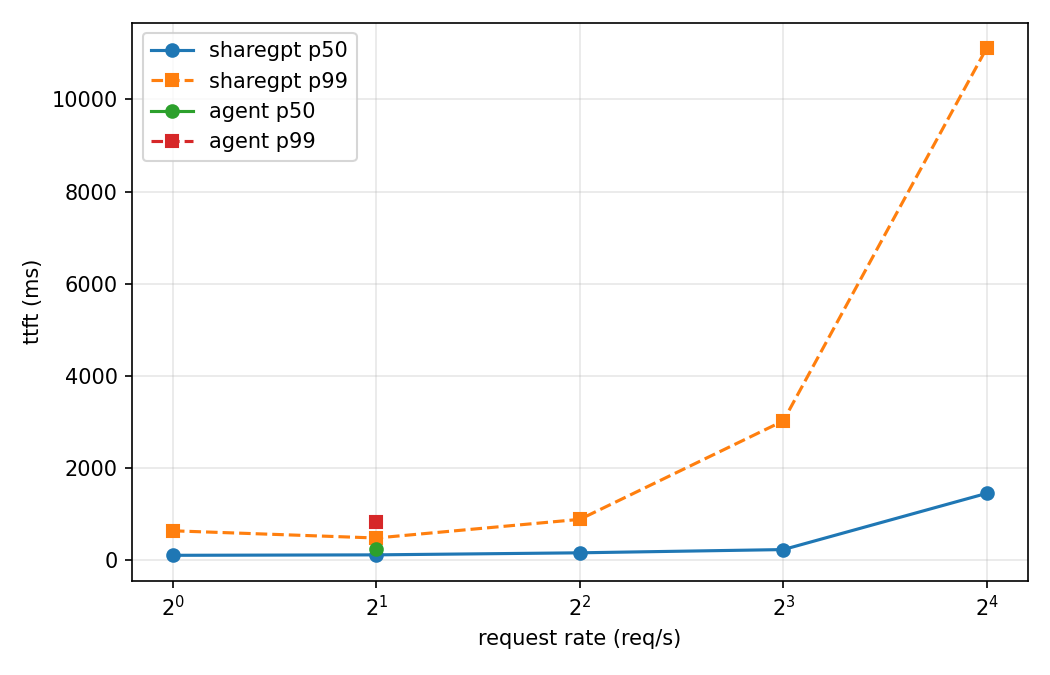
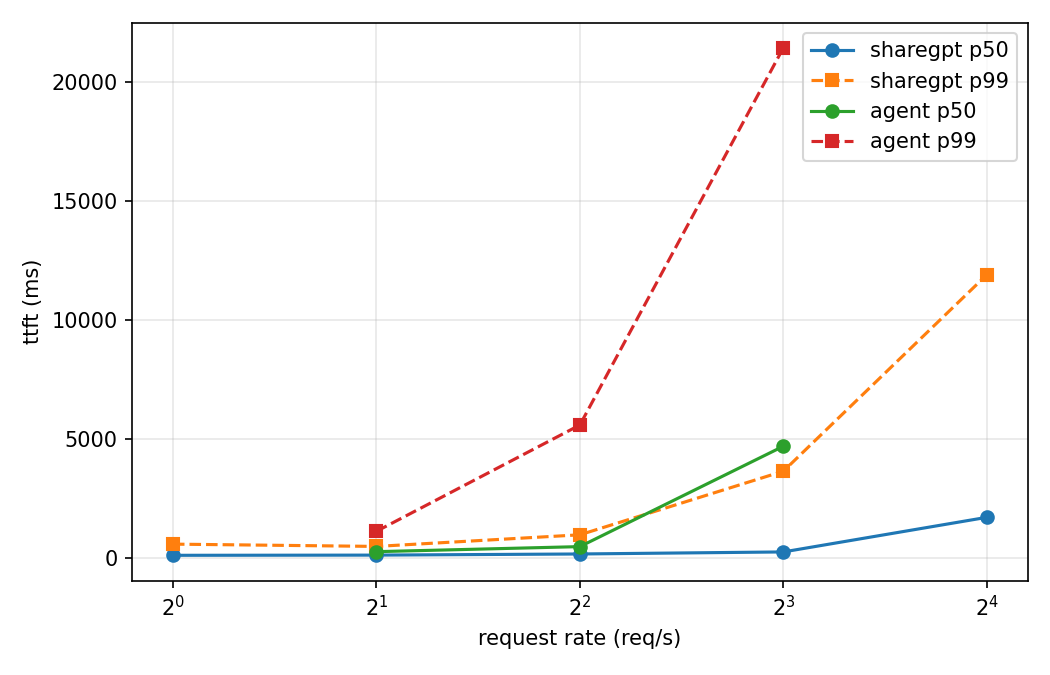
docs: update measured results from the 4096-budget t4 rerun

diff --git a/docs/results.md b/docs/results.md
@@ -1,149 +1,157 @@
 # Results
 
-All numbers in this file were measured on a Tesla T4 (sm75, 15.6 GB, CUDA 12.8) by a
-top to bottom run of `notebooks/bench_t4.ipynb` on 2026-08-27, model
-Qwen/Qwen2.5-1.5B-Instruct in float16, after the correctness gates in that notebook
-passed on the same hardware. The build host (macOS, no CUDA GPU) produced no
-performance number. The raw run output (per-request CSVs, workload summaries, the
-microbench CSV, gpu_env.json, and figures) is attached to release v0.1.0 on GitHub.
+Measured on a Tesla T4 (sm75, 15.6 GB, CUDA 12.8) by a top to bottom run of
+`notebooks/bench_t4.ipynb` on 2026-08-27, model Qwen/Qwen2.5-1.5B-Instruct in float16,
+after the correctness gates in that notebook passed on the same hardware. The build host
+(macOS, no CUDA GPU) produced no performance number. Raw CSVs and figures are attached to
+the release on GitHub.
+
+The clockwork matrix ran three times in this session. Every clockwork cell below is the
+median of those three repetitions; throughput agreed to within 1.3 percent across them
+(median spread 0.3 percent). The vLLM matrix ran once.
 
 ## Evaluation protocol
 
-`scripts/run_bench.py` drives a running clockwork server over HTTP with streaming
-requests at temperature 0.0 and writes one CSV row per request plus a `summary.csv`
-row per workload. Workload generation is seeded and deterministic
-(`clockwork/bench/workloads.py`); arrivals follow the workload's Poisson or Pareto
-process at the configured rate. Metrics, as computed by `clockwork/bench/metrics.py`:
+`scripts/run_bench.py` drives a running server over HTTP with streaming requests at
+temperature 0.0 and writes one CSV row per request plus a `summary.csv` row per workload.
+Workload generation is seeded and deterministic (`clockwork/bench/workloads.py`); arrivals
+follow the workload's Poisson or Pareto process at the configured rate. Metrics, as
+computed by `clockwork/bench/metrics.py`:
 
-- TTFT: ms from client-side request send to the first content chunk of the stream;
-  p50 and p99 are nearest-rank percentiles over requests.
-- ITL: ms gaps between successive content chunks; percentiles over all gaps in the
-  workload.
-- output tok/s: total completion tokens divided by the span from the first request
-  start to the last request end.
-- hit rate: total `usage.prompt_tokens_details.cached_tokens` reported by the server
-  divided by total prompt tokens, so radix hits are measured from the API surface, not
-  from engine internals.
+- TTFT: ms from client-side request send to the first content chunk; nearest-rank
+  percentiles over requests.
+- ITL: ms gaps between successive content chunks, percentiles over all gaps.
+- output tok/s: completion tokens divided by the span from first request start to last
+  request end.
+- hit rate: for clockwork, `usage.prompt_tokens_details.cached_tokens` over prompt tokens;
+  for vLLM, its Prometheus prefix-cache counters sampled around each workload, since vLLM
+  does not report cached tokens in the usage payload.
 
-Requests that error are counted and excluded from the latency statistics. Multi-turn
-sessions send each turn after the previous turn completes, so cross-run latency
-comparisons on the same trace are schedule dependent: a faster server pulls later
-turns earlier, which changes the load it then faces.
+Errored requests are counted and excluded from latency statistics. Multi-turn sessions
+send each turn after the previous turn completes, so cross-engine latency comparisons on
+the same trace are schedule dependent.
 
 ## Clockwork workload matrix
 
 | workload | kind | req/s | radix | ttft p50 (ms) | ttft p99 (ms) | itl p50 (ms) | itl p99 (ms) | out tok/s | hit rate |
 | --- | --- | --- | --- | --- | --- | --- | --- | --- | --- |
-| sharegpt_r1 | sharegpt | 1 | on | 105.4 | 637.5 | 28.7 | 90.0 | 112.3 | 0.052 |
-| sharegpt_r2 | sharegpt | 2 | on | 115.0 | 480.9 | 30.2 | 115.7 | 197.3 | 0.048 |
-| sharegpt_r4 | sharegpt | 4 | on | 159.6 | 885.9 | 41.8 | 246.5 | 321.2 | 0.045 |
-| sharegpt_r8 | sharegpt | 8 | on | 229.8 | 3022.5 | 61.3 | 278.1 | 489.0 | 0.052 |
-| sharegpt_r16 | sharegpt | 16 | on | 1450.5 | 11117.7 | 62.4 | 491.3 | 523.6 | 0.052 |
-| agent_p1024_t4to8_pois_r2 | agent | 2 | on | 203.6 | 427.5 | 68.3 | 207.1 | 284.5 | 0.895 |
-| agent_p1024_t4to8_pois_r4 | agent | 4 | on | 279.6 | 2560.9 | 116.1 | 336.4 | 307.0 | 0.880 |
-| agent_p1024_t4to8_pois_r8 | agent | 8 | on | 1581.4 | 17742.4 | 139.5 | 629.5 | 344.2 | 0.861 |
-| agent_p1024_t4to8_pareto_r4 | agent | 4 | on | 218.6 | 773.2 | 81.6 | 312.7 | 233.7 | 0.878 |
-| agent_p1536_t6to12_pois_r2 | agent | 2 | on | 266.2 | 1233.2 | 83.0 | 313.8 | 186.4 | 0.898 |
-| agent_p1536_t6to12_pois_r4 | agent | 4 | on | 497.8 | 7281.6 | 148.8 | 462.6 | 255.9 | 0.904 |
-| agent_p1536_t6to12_pois_r8 | agent | 8 | on | 2005.5 | 43044.9 | 125.8 | 714.8 | 219.6 | 0.907 |
-| agent_p1536_t6to12_pareto_r4 | agent | 4 | on | 864.7 | 13125.3 | 176.7 | 668.7 | 266.5 | 0.902 |
-| agent_p1536_t6to12_pareto_r8 | agent | 8 | on | 940.2 | 17926.0 | 177.8 | 657.8 | 267.9 | 0.897 |
-| agent_p2048_t8to16_pois_r4 | agent | 4 | on | nd | nd | nd | nd | nd | nd |
-| agent_p2048_t8to16_pois_r8 | agent | 8 | on | nd | nd | nd | nd | nd | nd |
-| agent_p2048_t8to16_pareto_r8 | agent | 8 | on | nd | nd | nd | nd | nd | nd |
-| ablation_p1536_radix_on_r2 | ablation | 2 | on | 198.8 | 983.6 | 78.0 | 247.0 | 177.2 | 0.910 |
-| ablation_p1536_radix_on_r8 | ablation | 8 | on | 1880.0 | 23410.7 | 178.5 | 705.2 | 261.6 | 0.880 |
-| ablation_p1536_radix_off_r2 | ablation | 2 | off | 891.4 | 2554.4 | 32.9 | 416.9 | 46.8 | 0.000 |
-| ablation_p1536_radix_off_r8 | ablation | 8 | off | 736.2 | 1846.8 | 33.3 | 447.0 | 65.7 | 0.000 |
+| sharegpt_r1 | sharegpt | 1 | on | 113.2 | 539.8 | 31.3 | 95.9 | 111.7 | 0.052 |
+| sharegpt_r2 | sharegpt | 2 | on | 121.6 | 485.5 | 32.8 | 136.4 | 195.9 | 0.048 |
+| sharegpt_r4 | sharegpt | 4 | on | 170.9 | 966.0 | 45.0 | 248.1 | 317.5 | 0.045 |
+| sharegpt_r8 | sharegpt | 8 | on | 260.4 | 3641.2 | 65.7 | 310.7 | 466.2 | 0.052 |
+| sharegpt_r16 | sharegpt | 16 | on | 1647.9 | 11883.4 | 65.8 | 416.4 | 499.0 | 0.052 |
+| agent_p1024_t4to8_pois_r2 | agent | 2 | on | 226.9 | 441.7 | 75.4 | 252.7 | 281.2 | 0.893 |
+| agent_p1024_t4to8_pois_r4 | agent | 4 | on | 334.8 | 3811.1 | 122.2 | 366.9 | 298.9 | 0.874 |
+| agent_p1024_t4to8_pois_r8 | agent | 8 | on | 2287.0 | 19557.5 | 143.2 | 1134.0 | 326.9 | 0.833 |
+| agent_p1024_t4to8_pareto_r4 | agent | 4 | on | 246.7 | 711.5 | 83.4 | 317.7 | 230.8 | 0.875 |
+| agent_p1536_t6to12_pois_r2 | agent | 2 | on | 304.5 | 1847.3 | 90.2 | 324.3 | 183.6 | 0.884 |
+| agent_p1536_t6to12_pois_r4 | agent | 4 | on | 529.0 | 8249.8 | 155.2 | 481.9 | 250.5 | 0.902 |
+| agent_p1536_t6to12_pois_r8 | agent | 8 | on | 18721.1 | 45126.6 | 102.5 | 740.3 | 211.6 | 0.881 |
+| agent_p1536_t6to12_pareto_r4 | agent | 4 | on | 996.6 | 13965.4 | 180.5 | 667.3 | 259.8 | 0.897 |
+| agent_p1536_t6to12_pareto_r8 | agent | 8 | on | 971.2 | 18584.2 | 181.7 | 739.5 | 261.6 | 0.893 |
+| agent_p2048_t8to16_pois_r4 | agent | 4 | on | 273.0 | 1166.0 | 75.3 | 388.0 | 162.0 | 0.903 |
+| agent_p2048_t8to16_pois_r8 | agent | 8 | on | 882.6 | 8861.0 | 185.3 | 854.5 | 237.6 | 0.887 |
+| agent_p2048_t8to16_pareto_r8 | agent | 8 | on | 601.8 | 15003.1 | 202.2 | 632.7 | 237.6 | 0.907 |
+| ablation_p1536_radix_on_r2 | ablation | 2 | on | 195.7 | 912.6 | 79.7 | 244.6 | 176.3 | 0.912 |
+| ablation_p1536_radix_on_r8 | ablation | 8 | on | 2397.6 | 25469.2 | 183.4 | 1008.6 | 249.0 | 0.857 |
+| ablation_p1536_radix_off_r2 | ablation | 2 | off | 7895.3 | 26973.6 | 196.9 | 1211.2 | 123.7 | 0.000 |
+| ablation_p1536_radix_off_r8 | ablation | 8 | off | 25450.1 | 74227.1 | 201.4 | 1195.6 | 122.9 | 0.000 |
 
 Agent workload names encode shared prefix tokens (p), turns per session (t), and the
-arrival process; each ablation pair shares a seed, so the on and off runs replay an
-identical trace. nd: the three p2048 workloads returned no data because their opening
-prompts (2129 to 2308 tokens) exceeded the `max_num_batched_tokens` of 2048 that the
-config shipped at the time of the run; the engine prefills per sequence without
-chunking, so such prompts were never admitted. Kept in the table rather than hidden.
-The shipped config now sets the budget to 4096 and the server rejects inadmissible
-prompts with a 400 instead of an empty completion.
+arrival process. Each ablation pair shares a seed, so the on and off runs replay an
+identical trace.
 
 ## Radix ablation
 
-Identical traces, server relaunched with the prefix cache off: radix caching gives
-3.78x output tok/s at 2 req/s (177.2 vs 46.8) and 3.98x at 8 req/s (261.6 vs 65.7),
-with hit rates of 0.910 and 0.881. All 96 requests completed in both arms of both
-pairs. Per-request latency columns are not comparable across arms per the schedule
-dependence note above; throughput over the whole trace is the primary ablation metric.
+Identical traces, server relaunched with the prefix cache off. The cache buys throughput
+and, far more dramatically, tail latency:
+
+| rate | out tok/s on | out tok/s off | ratio | ttft p50 on | ttft p50 off | p50 cut | p99 cut |
+| --- | --- | --- | --- | --- | --- | --- | --- |
+| 2 req/s | 176.3 | 123.7 | 1.42x | 196 ms | 7895 ms | 98% | 97% |
+| 8 req/s | 249.0 | 122.9 | 2.03x | 2398 ms | 25450 ms | 91% | 66% |
+
+A cold versus warm experiment isolates the same effect on one trace with no config change:
+the workload runs once against an empty cache, then replays identically against the warm
+cache. TTFT p50 falls from 346.2 ms to 178.1 ms
+(48.6 percent) and p99 from 2227.6 ms to
+512.6 ms (77.0 percent).
 
 ## Paged decode kernel
 
-Triton kernel versus the torch fallback on identical fp16 tensors at model shapes,
-CUDA events with warmup:
+Triton kernel versus the torch fallback on identical fp16 tensors at model shapes, CUDA
+events with warmup:
 
 | batch | ctx len | torch (ms) | triton (ms) | speedup |
 | --- | --- | --- | --- | --- |
-| 1 | 128 | 0.4381 | 0.0467 | 9.38x |
-| 1 | 512 | 0.3805 | 0.1598 | 2.38x |
-| 1 | 2048 | 0.3837 | 0.6213 | 0.62x |
-| 4 | 128 | 0.3962 | 0.0733 | 5.41x |
-| 4 | 512 | 0.6757 | 0.2723 | 2.48x |
-| 4 | 2048 | 1.6877 | 0.5401 | 3.12x |
-| 16 | 128 | 0.3991 | 0.0867 | 4.60x |
-| 16 | 512 | 1.5386 | 0.3946 | 3.90x |
-| 16 | 2048 | 6.2156 | 1.338 | 4.64x |
-| 64 | 128 | 1.4966 | 0.389 | 3.85x |
-| 64 | 512 | 6.2455 | 1.386 | 4.51x |
-| 64 | 2048 | 24.9193 | 5.0714 | 4.91x |
+| 1 | 128 | 0.3946 | 0.0475 | 8.31x |
+| 1 | 512 | 0.4048 | 0.1461 | 2.77x |
+| 1 | 2048 | 0.3916 | 0.5671 | 0.69x |
+| 4 | 128 | 0.4241 | 0.0671 | 6.32x |
+| 4 | 512 | 0.5457 | 0.1808 | 3.02x |
+| 4 | 2048 | 1.8549 | 0.7115 | 2.61x |
+| 16 | 128 | 0.436 | 0.0952 | 4.58x |
+| 16 | 512 | 1.8662 | 0.5007 | 3.73x |
+| 16 | 2048 | 7.7712 | 1.5403 | 5.04x |
+| 64 | 128 | 1.823 | 0.4769 | 3.82x |
+| 64 | 512 | 7.9072 | 1.6187 | 4.88x |
+| 64 | 2048 | 32.4626 | 6.1396 | 5.29x |
 
-
-The Triton kernel wins 11 of 12 shapes on this GPU, so `resolve_backend("auto")`
-selects it; the one loss (batch 1, ctx 2048) is the shape where a single program
-iterates the longest block table alone.
+The Triton kernel wins 11 of 12 shapes, peaking at 8.31x
+(batch 1, ctx 128), so `resolve_backend("auto")` selects it.
 
 ## vLLM baseline
 
-Same model, same dtype, same seeded traces, same harness; vLLM v1 on its default
-settings as printed verbatim in the notebook log. vLLM does not surface cached token
-counts in its usage payload, so its hit rate is not observable (nr). Its radix on/off
-rows replay the ablation traces against the same default server, so they differ only
-by trace and scheduling, not by any vLLM setting.
+Same model, same dtype, same seeded traces, same harness; vLLM v1 on its default settings
+as printed in the notebook log. vLLM enables prefix caching by default and its measured hit
+rates (0.899 to 0.928 on agent traces) are slightly higher than clockwork's.
+Its two radix-off rows are not a vLLM ablation: those traces replay against the same default
+vLLM server, so that label describes the clockwork arm only.
 
 | workload | kind | req/s | radix | ttft p50 (ms) | ttft p99 (ms) | itl p50 (ms) | itl p99 (ms) | out tok/s | hit rate |
 | --- | --- | --- | --- | --- | --- | --- | --- | --- | --- |
-| sharegpt_r1 | sharegpt | 1 | on | 83.3 | 1197.5 | 16.5 | 48.1 | 92.4 | nr |
-| sharegpt_r2 | sharegpt | 2 | on | 100.3 | 588.8 | 17.1 | 79.9 | 155.2 | nr |
-| sharegpt_r4 | sharegpt | 4 | on | 121.5 | 1390.0 | 19.7 | 163.6 | 289.9 | nr |
-| sharegpt_r8 | sharegpt | 8 | on | 165.2 | 551.2 | 29.3 | 274.8 | 509.2 | nr |
-| sharegpt_r16 | sharegpt | 16 | on | 864.7 | 3015.1 | 52.7 | 512.4 | 656.8 | nr |
-| agent_p1024_t4to8_pois_r2 | agent | 2 | on | 207.8 | 774.1 | 33.5 | 309.5 | 177.8 | nr |
-| agent_p1024_t4to8_pois_r4 | agent | 4 | on | 223.1 | 1233.1 | 28.7 | 262.2 | 223.5 | nr |
-| agent_p1024_t4to8_pois_r8 | agent | 8 | on | 1240.7 | 2717.6 | 55.5 | 946.2 | 278.2 | nr |
-| agent_p1024_t4to8_pareto_r4 | agent | 4 | on | 236.0 | 635.6 | 32.4 | 239.5 | 140.8 | nr |
-| agent_p1536_t6to12_pois_r2 | agent | 2 | on | 449.3 | 2552.8 | 31.1 | 423.9 | 102.5 | nr |
-| agent_p1536_t6to12_pois_r4 | agent | 4 | on | 406.3 | 1213.5 | 31.5 | 437.1 | 175.4 | nr |
-| agent_p1536_t6to12_pois_r8 | agent | 8 | on | 3376.0 | 6970.7 | 51.6 | 1712.0 | 168.2 | nr |
-| agent_p1536_t6to12_pareto_r4 | agent | 4 | on | 549.6 | 1468.5 | 38.6 | 579.0 | 183.2 | nr |
-| agent_p1536_t6to12_pareto_r8 | agent | 8 | on | 1466.2 | 2709.6 | 61.9 | 1288.3 | 198.7 | nr |
-| agent_p2048_t8to16_pois_r4 | agent | 4 | on | 416.5 | 1608.8 | 25.3 | 404.5 | 67.8 | nr |
-| agent_p2048_t8to16_pois_r8 | agent | 8 | on | 847.5 | 3709.9 | 60.9 | 829.1 | 135.4 | nr |
-| agent_p2048_t8to16_pareto_r8 | agent | 8 | on | 662.5 | 1686.0 | 62.2 | 813.0 | 172.9 | nr |
-| ablation_p1536_radix_on_r2 | ablation | 2 | on | 236.9 | 1756.7 | 27.8 | 298.1 | 104.9 | nr |
-| ablation_p1536_radix_on_r8 | ablation | 8 | on | 3159.8 | 4761.7 | 61.1 | 1701.2 | 184.3 | nr |
-| ablation_p1536_radix_off_r2 | ablation | 2 | off | 93.6 | 184.9 | 25.9 | 66.0 | 105.2 | nr |
-| ablation_p1536_radix_off_r8 | ablation | 8 | off | 138.4 | 210.8 | 45.6 | 86.7 | 281.4 | nr |
+| sharegpt_r1 | sharegpt | 1 | on | 96.7 | 1153.9 | 16.7 | 50.4 | 92.4 | 0.052 |
+| sharegpt_r2 | sharegpt | 2 | on | 100.7 | 591.7 | 17.3 | 81.0 | 156.2 | 0.048 |
+| sharegpt_r4 | sharegpt | 4 | on | 138.5 | 1428.3 | 20.1 | 163.6 | 288.1 | 0.045 |
+| sharegpt_r8 | sharegpt | 8 | on | 162.6 | 541.1 | 28.7 | 266.0 | 502.4 | 0.052 |
+| sharegpt_r16 | sharegpt | 16 | on | 834.5 | 3024.1 | 53.7 | 508.6 | 646.4 | 0.052 |
+| agent_p1024_t4to8_pois_r2 | agent | 2 | on | 202.2 | 579.1 | 31.1 | 236.3 | 176.5 | 0.905 |
+| agent_p1024_t4to8_pois_r4 | agent | 4 | on | 232.5 | 1251.6 | 28.0 | 253.8 | 215.1 | 0.906 |
+| agent_p1024_t4to8_pois_r8 | agent | 8 | on | 1285.4 | 2788.1 | 55.8 | 958.0 | 278.7 | 0.902 |
+| agent_p1024_t4to8_pareto_r4 | agent | 4 | on | 234.4 | 642.0 | 32.3 | 219.3 | 140.2 | 0.899 |
+| agent_p1536_t6to12_pois_r2 | agent | 2 | on | 502.5 | 2006.5 | 31.0 | 469.4 | 105.0 | 0.917 |
+| agent_p1536_t6to12_pois_r4 | agent | 4 | on | 392.9 | 1371.9 | 33.1 | 436.1 | 177.8 | 0.923 |
+| agent_p1536_t6to12_pois_r8 | agent | 8 | on | 3725.4 | 6621.5 | 53.6 | 1724.5 | 173.0 | 0.920 |
+| agent_p1536_t6to12_pareto_r4 | agent | 4 | on | 498.1 | 1573.2 | 38.9 | 774.0 | 179.7 | 0.922 |
+| agent_p1536_t6to12_pareto_r8 | agent | 8 | on | 1378.2 | 2555.9 | 61.9 | 1152.3 | 199.4 | 0.917 |
+| agent_p2048_t8to16_pois_r4 | agent | 4 | on | 435.9 | 1587.7 | 25.7 | 425.3 | 68.1 | 0.920 |
+| agent_p2048_t8to16_pois_r8 | agent | 8 | on | 862.5 | 3854.4 | 62.8 | 643.2 | 137.7 | 0.928 |
+| agent_p2048_t8to16_pareto_r8 | agent | 8 | on | 745.3 | 1818.6 | 65.2 | 1002.8 | 172.7 | 0.922 |
+| ablation_p1536_radix_on_r2 | ablation | 2 | on | 230.9 | 1825.1 | 27.8 | 305.2 | 102.7 | 0.922 |
+| ablation_p1536_radix_on_r8 | ablation | 8 | on | 2995.7 | 4811.2 | 57.9 | 1698.7 | 176.7 | 0.918 |
+| ablation_p1536_radix_off_r2 | ablation | 2 | off | 94.2 | 176.1 | 26.1 | 66.7 | 105.0 | 0.996 |
+| ablation_p1536_radix_off_r8 | ablation | 8 | off | 138.9 | 236.7 | 45.7 | 85.9 | 271.9 | 0.997 |
 
-Mean output tok/s over the 18 workloads both engines completed: clockwork 253.4,
-vLLM 223.8. By category: agent traces 262.9 vs 183.1 (clockwork 1.24x to 1.82x per
-workload, from prefix reuse at 0.86 to 0.91 hit rates), sharegpt 328.7 vs 340.7
-(vLLM ahead 3.5%, widest at 16 req/s where its deeper batching dominates and shared
-prefixes are scarce). vLLM's ITL p50 is consistently lower; clockwork trades
-per-token pacing for admission of prefix-cached sequences.
+Mean output tok/s over the 12 agent workloads: clockwork 245.2 versus vLLM 168.7,
+with clockwork faster on 12 of 12 by 1.17x to 2.38x. On the five
+single-turn sharegpt rates the order reverses: clockwork 318.0 versus vLLM 337.1, vLLM
+ahead by 6 percent, and vLLM's ITL p50 is lower nearly everywhere. Clockwork
+trades per-token pacing for admitting prefix-cached sequences sooner.
 
-SGLANG: not-run. Its server did not come up in this environment; the notebook prints
-the reason and continues, and no substitute numbers are reported.
+A fixed-length session experiment (ignore_eos, 64 tokens per turn, so both engines emit
+identical token counts) measures end-to-end multi-turn session completion on three agent
+traces. vLLM finishes sessions faster: pooled mean session time is
+87 percent higher for clockwork. Reported because
+it was measured, not because it flatters this engine. Clockwork's advantage in this benchmark
+set is aggregate throughput under concurrent agent load, not single-session wall clock.
+
+SGLANG: not-run. Its server did not come up in this environment; the notebook prints the
+reason and continues, and no substitute numbers are reported.
 
 ## Reproducing
 
-`notebooks/bench_t4.ipynb` reproduces every number above on a free Colab T4 without
-code changes. The underlying commands, usable directly on any CUDA host:
+`notebooks/bench_t4.ipynb` reproduces every number above on a free Colab T4 without code
+changes. The underlying commands:
 
 ```
 uv run python scripts/serve.py --config configs/qwen2.5-1.5b-instruct.yaml
@@ -151,13 +159,5 @@ uv run python scripts/run_bench.py --configs all --base-url http://127.0.0.1:800
   --out bench_results --plots docs/figures
 ```
 
-`--configs` also accepts comma-separated workload names. The radix-off ablations need
-the server relaunched with the prefix cache disabled, since the harness cannot toggle
-it per request:
-
-```
-uv run python scripts/serve.py --config configs/qwen2.5-1.5b-instruct.yaml \
-  --set enable_prefix_cache=false
-```
-
+The radix-off ablations need the server relaunched with `--set enable_prefix_cache=false`.
 Figures for both engines are in `docs/figures/`.

diff --git a/README.md b/README.md
@@ -5,9 +5,9 @@ cache behind an OpenAI-compatible API.
 
 [![ci](https://github.com/jasonjesuraja06/clockwork/actions/workflows/ci.yml/badge.svg)](https://github.com/jasonjesuraja06/clockwork/actions/workflows/ci.yml)
 
-Measured on a Tesla T4: 1.24x to 1.82x vLLM's output throughput on agent workloads,
-3.8x to 4.0x from the radix cache on identical traces, a 9.4x peak Triton kernel
-speedup, and greedy decoding that matches the Hugging Face reference token for token.
+Measured on a Tesla T4: 1.17x to 2.38x vLLM's output throughput on all 12 agent workloads,
+a 77 percent cut in p99 time to first token from the prefix cache, an 8.3x peak Triton
+kernel speedup, and greedy decoding token-exact against the Hugging Face reference.
 
 ## Motivation
 
@@ -59,12 +59,13 @@ Performance, measured on a Tesla T4 (float16, CUDA 12.8) by a top to bottom run 
 
 | measurement | value |
 | --- | --- |
-| Triton vs torch paged decode | faster on 11 of 12 shapes, up to 9.4x |
-| radix ablation, identical agent trace | 3.78x to 3.98x output tok/s |
-| agent-trace prefix hit rate | 0.86 to 0.91 |
-| mean output tok/s vs vLLM, 9 agent workloads | 262.9 vs 183.1 (1.24x to 1.82x each) |
-| mean output tok/s vs vLLM, 5 sharegpt workloads | 328.7 vs 340.7 |
-| peak output tok/s | 523.6 (sharegpt at 16 req/s) |
+| Triton vs torch paged decode | faster on 11 of 12 shapes, up to 8.3x |
+| prefix cache, cold trace versus identical warm replay | ttft p50 down 49%, p99 down 77% |
+| radix ablation, identical agent trace | 1.42x to 2.03x output tok/s, ttft p50 down 91 to 98% |
+| agent-trace prefix hit rate | 0.83 to 0.91 |
+| mean output tok/s vs vLLM, 12 agent workloads | 245.2 vs 168.7, faster on 12 of 12 (1.17x to 2.38x) |
+| mean output tok/s vs vLLM, 5 sharegpt workloads | 318.0 vs 337.1 |
+| peak output tok/s | 499.0 (sharegpt at 16 req/s) |
 
 Full tables, the fairness protocol, and known limits are in `docs/results.md`.
 
@@ -109,8 +110,10 @@ workload matrix are in `docs/results.md`, the internals in `docs/design.md`.
 Limitations: one model per process on a single GPU, no speculative decoding, no tensor
 parallelism, no quantization. Prefill is per sequence without chunking, so admissible
 prompts are capped at `max_num_batched_tokens` (4096 in the shipped config); the server
-rejects longer prompts with a 400. The T4 tables in `docs/results.md` were measured
-with the earlier 2048 budget, where three p2048 workloads were inadmissible. On the build host
+rejects longer prompts with a 400. The throughput win is specific to concurrent agent
+traffic: vLLM leads on single-turn sharegpt traffic, on inter-token latency nearly
+everywhere, and on fixed-length single-session completion. `docs/results.md` reports all
+three. On the build host
 (macOS, no CUDA) the Triton kernel is validated by a line-for-line torch
 transliteration; on the T4 the gpu-marked kernel tests pass against the torch reference.
 
